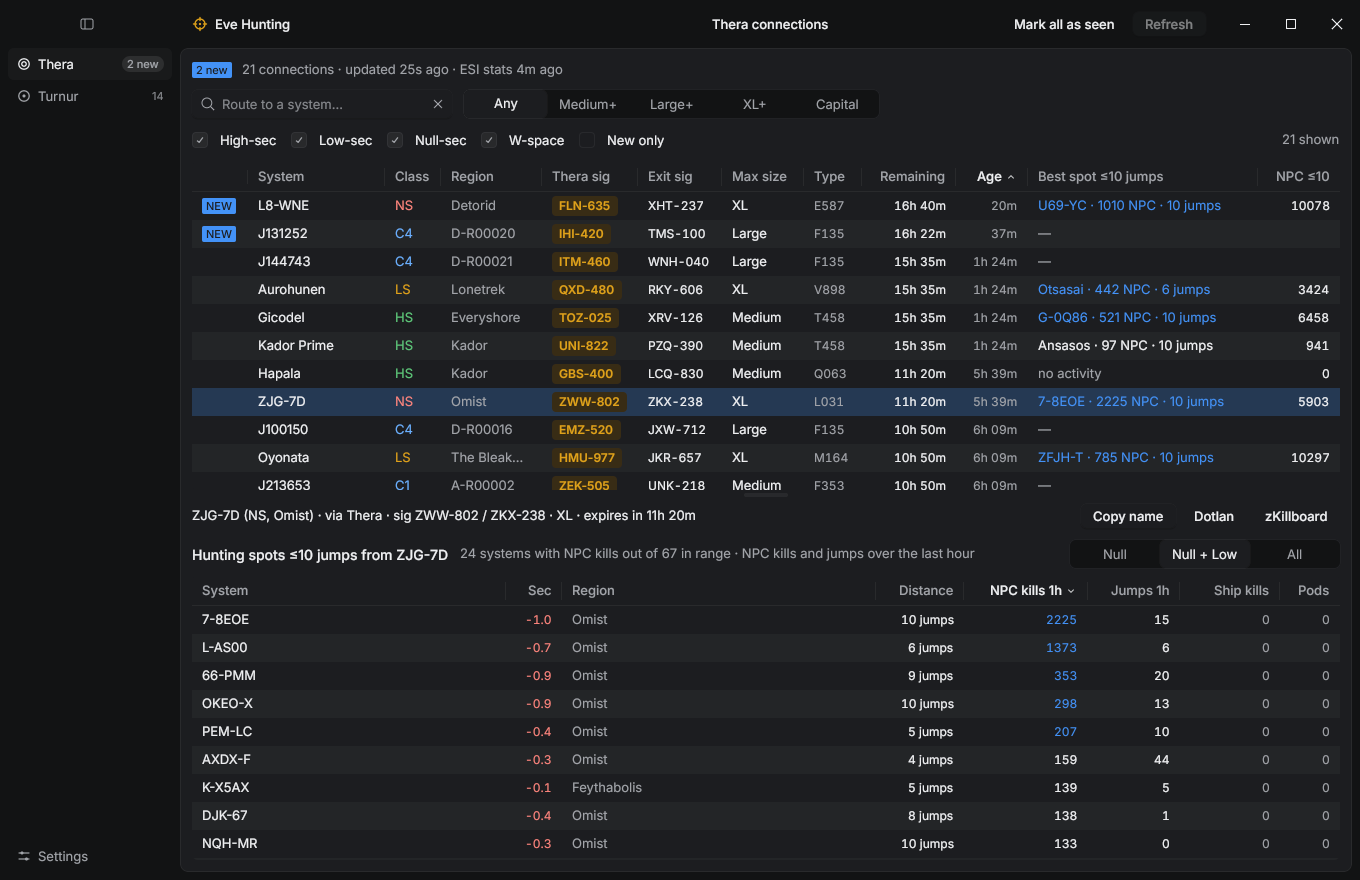
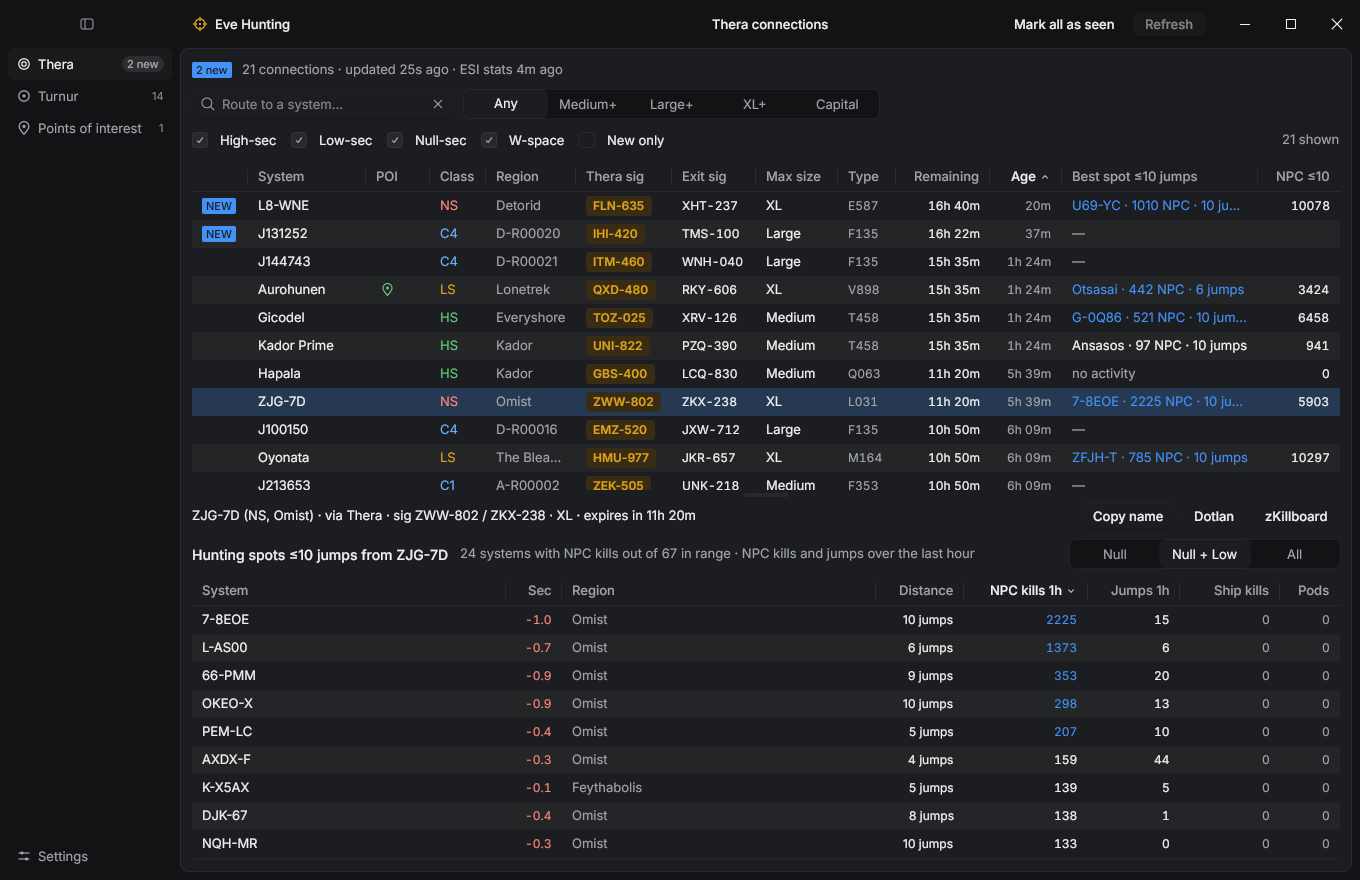
Refresh README screenshots, add POI card and light theme shots

diff --git a/README.md b/README.md
@@ -44,7 +44,11 @@ where the ratters are before you jump.
 
 ![Routing to Amarr: the connections sorted by the jumps from their exit](shots/route-dark.png)
 
-![Points of interest: the connections within six jumps of an enemy staging](shots/poi-dark.png)
+![Points of interest: Jita, an enemy staging and another system, with the connections in range of the selected one](shots/poi-dark.png)
+
+![A POI pin's card: the points of interest within reach of Aurohunen](shots/poi-hint-dark.png)
+
+![The light theme](shots/thera-light.png)
 
 ![The settings dialog](shots/settings-dark.png)
 
